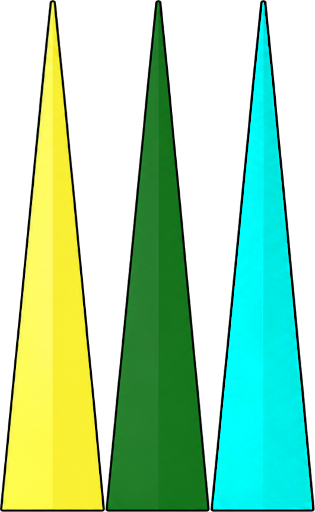
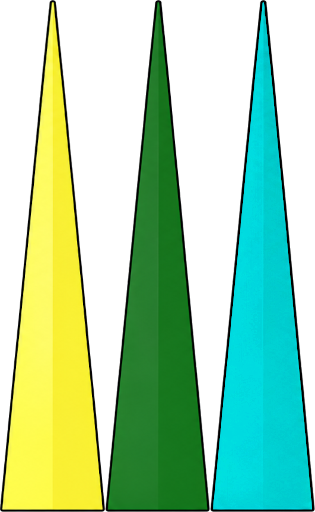
gfx: Piece highlight texture

Changed region(s): [[0.6571, 0.0, 1.0, 1.0]]

diff --git a/BackgammonByHoratiu/Gui/Controls/GuiGameBoard.cs b/BackgammonByHoratiu/Gui/Controls/GuiGameBoard.cs
@@ -44,7 +44,6 @@ namespace BackgammonByHoratiu.Gui.Controls
         GameTime lastGameTime = new();
         SpriteFont boardFont;
 
-        // Precomputed hit-test rectangles mirroring the original MainWindow layout
         Rectangle[] columnRects;
         Rectangle outColumnTop, outColumnBottom;
         Rectangle houseTop, houseBottom;
@@ -152,12 +151,19 @@ namespace BackgammonByHoratiu.Gui.Controls
                     ContentFile = "Table/pieces",
                     SourceRectangle = new Rectangle2D(pieceFrameSize, 0, pieceFrameSize, pieceFrameSize),
                     Size = new Size2D(pieceFrameSize, pieceFrameSize)
+                },
+                new GuiImage
+                {
+                    ContentFile = "Table/pieces",
+                    SourceRectangle = new Rectangle2D(pieceFrameSize * 2, 0, pieceFrameSize, pieceFrameSize),
+                    Size = new Size2D(pieceFrameSize, pieceFrameSize)
                 }
             ];
             pieces[0].Hide();
             pieces[1].Hide();
+            pieces[2].Hide();
 
-            RegisterChildren(die1, die2, pieces[0], pieces[1], targetColumnImage);
+            RegisterChildren(die1, die2, pieces[0], pieces[1], pieces[2], targetColumnImage);
             RegisterChildren(columnImages);
         }
 
@@ -199,13 +205,10 @@ namespace BackgammonByHoratiu.Gui.Controls
             int w = GameDefines.WindowWidth;
             int h = GameDefines.WindowHeight;
 
-            // Background
             spriteBatch.Draw(pixelTexture, new Rectangle(0, 0, w, h), ColorBackground);
 
-            // Column triangles
             DrawColumns(spriteBatch);
 
-            // Highlight valid destination columns (below pieces)
             foreach (int dest in ValidDestinations)
             {
                 if (dest >= 0 && dest < 24)
@@ -222,18 +225,15 @@ namespace BackgammonByHoratiu.Gui.Controls
                 }
             }
 
-            // Bar and house backgrounds
             spriteBatch.Draw(pixelTexture, outColumnTop, ColorOutColumn);
             spriteBatch.Draw(pixelTexture, outColumnBottom, ColorOutColumn);
             spriteBatch.Draw(pixelTexture, houseTop, ColorHouseColumn);
             spriteBatch.Draw(pixelTexture, houseBottom, ColorHouseColumn);
 
-            // Pieces on board columns
             DrawPieces(spriteBatch);
 
             DrawCompletedPieces(spriteBatch);
 
-            // Animated piece in flight
             if (isAnimating)
             {
                 TextureSprite animSprite = null;
@@ -257,25 +257,7 @@ namespace BackgammonByHoratiu.Gui.Controls
                     DrawCircle(spriteBatch, new Rectangle(pos.X, pos.Y, ps, ps), animColor);
                 }
             }
-
-            // Highlight selected column / bar
-            if (SelectedColumn >= 0 && SelectedColumn < 24)
-            {
-                DrawBorder(spriteBatch, columnRects[SelectedColumn], Color.Yellow, 3);
-            }
-            else if (SelectedColumn == GameDefines.ColBarP1)
-            {
-                DrawBorder(spriteBatch, outColumnTop, Color.Yellow, 3);
-            }
-            else if (SelectedColumn == GameDefines.ColBarP2)
-            {
-                DrawBorder(spriteBatch, outColumnBottom, Color.Yellow, 3);
-            }
         }
-
-        // ------------------------------------------------------------------ //
-        //  Drawing helpers                                                     //
-        // ------------------------------------------------------------------ //
 
         void DrawColumns(SpriteBatch spriteBatch)
         {
@@ -332,7 +314,8 @@ namespace BackgammonByHoratiu.Gui.Controls
                         dest = new Rectangle(columnRects[i].Left, columnRects[i].Bottom - (z + 1) * pieceSize, pieceSize, pieceSize);
                     }
 
-                    DrawCircle(spriteBatch, dest, pieceColor);
+                    bool isTopPiece = z == visible - 1 && i == SelectedColumn;
+                    DrawCircle(spriteBatch, dest, pieceColor, isTopPiece);
                 }
 
                 if (count > piecesPerCol)
@@ -368,7 +351,8 @@ namespace BackgammonByHoratiu.Gui.Controls
             {
                 int cx = outColumnTop.Left + (outColumnTop.Width - pieceSize) / 2;
                 Rectangle dest = new(cx, outColumnTop.Top + z * pieceSize, pieceSize, pieceSize);
-                DrawCircle(spriteBatch, dest, ColorPlayer1);
+                bool isTopPiece = z == Math.Min(piecesP1, piecesPerCol) - 1 && SelectedColumn == GameDefines.ColBarP1;
+                DrawCircle(spriteBatch, dest, ColorPlayer1, isTopPiece);
             }
             if (piecesP1 > piecesPerCol)
             {
@@ -381,7 +365,8 @@ namespace BackgammonByHoratiu.Gui.Controls
             {
                 int cx = outColumnBottom.Left + (outColumnBottom.Width - pieceSize) / 2;
                 Rectangle dest = new(cx, outColumnBottom.Bottom - pieceSize - z * pieceSize, pieceSize, pieceSize);
-                DrawCircle(spriteBatch, dest, ColorPlayer2);
+                bool isTopPiece = z == Math.Min(piecesP2, piecesPerCol) - 1 && SelectedColumn == GameDefines.ColBarP2;
+                DrawCircle(spriteBatch, dest, ColorPlayer2, isTopPiece);
             }
             if (piecesP2 > piecesPerCol)
             {
@@ -428,9 +413,9 @@ namespace BackgammonByHoratiu.Gui.Controls
             }
         }
 
-        void DrawCircle(SpriteBatch spriteBatch, Rectangle dest, Color fill)
+        void DrawCircle(SpriteBatch spriteBatch, Rectangle dest, Color fill, bool isSelected = false)
         {
-            int idx = fill == ColorPlayer2 ? 1 : 0;
+            int idx = isSelected ? 2 : (fill == ColorPlayer2 ? 1 : 0);
             pieces[idx].Location = new Point2D(dest.X, dest.Y);
             pieces[idx].Size = new Size2D(dest.Width, dest.Height);
             pieces[idx].Update(lastGameTime);
@@ -439,13 +424,9 @@ namespace BackgammonByHoratiu.Gui.Controls
 
         void DrawBorder(SpriteBatch spriteBatch, Rectangle rect, Color color, int thickness)
         {
-            // Top
             spriteBatch.Draw(pixelTexture, new Rectangle(rect.Left, rect.Top, rect.Width, thickness), color);
-            // Bottom
             spriteBatch.Draw(pixelTexture, new Rectangle(rect.Left, rect.Bottom - thickness, rect.Width, thickness), color);
-            // Left
             spriteBatch.Draw(pixelTexture, new Rectangle(rect.Left, rect.Top, thickness, rect.Height), color);
-            // Right
             spriteBatch.Draw(pixelTexture, new Rectangle(rect.Right - thickness, rect.Top, thickness, rect.Height), color);
         }
 
@@ -458,10 +439,6 @@ namespace BackgammonByHoratiu.Gui.Controls
 
             spriteBatch.DrawString(boardFont, text, pos, color);
         }
-
-        // ------------------------------------------------------------------ //
-        //  Hit-test helpers (used by GameplayScreen)                          //
-        // ------------------------------------------------------------------ //
 
         public int ColumnAt(int x, int y)
         {
@@ -576,8 +553,6 @@ namespace BackgammonByHoratiu.Gui.Controls
 
             TextureSprite sprite = activePlayer == 2 ? animSpriteBrown : animSpriteWhite;
 
-            // Hop 1 left sprite.Location at the original start; advance it to the
-            // intermediate pixel (= TargetLocation from hop 1) so hop 2 starts there.
             sprite.Location = sprite.MovementEffect.TargetLocation;
 
             Point2D dstPixel = GetAnimDestPixel(toCol, activePlayer, ps, piecesPerCol);
@@ -609,7 +584,6 @@ namespace BackgammonByHoratiu.Gui.Controls
                 return new Point2D(cx, outColumnTop.Top + (count - 1) * ps);
             }
 
-            // ColBarP2
             int cxBrown = outColumnBottom.Left + (outColumnBottom.Width - ps) / 2;
             int countBrown = Math.Min(game.Player2.OutedPieces, piecesPerCol);
             return new Point2D(cxBrown, outColumnBottom.Bottom - countBrown * ps);
@@ -643,7 +617,6 @@ namespace BackgammonByHoratiu.Gui.Controls
                 return new Point2D(cx, houseBottom.Bottom - (slot + 1) * ps);
             }
 
-            // ColHouseP2
             int cxH = houseTop.Left + (houseTop.Width - ps) / 2;
             int existingH = game.Player2.CompletedPieces;
             int slotH = existingH >= piecesPerCol ? piecesPerCol - 1 : existingH;
@@ -672,7 +645,6 @@ namespace BackgammonByHoratiu.Gui.Controls
             int ps = GameDefines.PieceSize;
             int piecesPerCol = GameDefines.ColumnHeight / ps;
 
-            // The hit piece was the only one at hitCol (a blot, count = 1)
             Point2D srcPixel = hitCol < 12
                 ? new Point2D(columnRects[hitCol].Left, columnRects[hitCol].Top)
                 : new Point2D(columnRects[hitCol].Left, columnRects[hitCol].Bottom - ps);
@@ -680,7 +652,6 @@ namespace BackgammonByHoratiu.Gui.Controls
             Point2D dstPixel;
             if (hitPlayer == 1)
             {
-                // White piece flies to P1 bar (outColumnTop)
                 int cx = outColumnTop.Left + (outColumnTop.Width - ps) / 2;
                 int count = Math.Min(game.Player1.OutedPieces, piecesPerCol);
                 dstPixel = new Point2D(cx, outColumnTop.Top + (count - 1) * ps);
@@ -688,7 +659,6 @@ namespace BackgammonByHoratiu.Gui.Controls
             }
             else
             {
-                // Brown piece flies to P2 bar (outColumnBottom)
                 int cx = outColumnBottom.Left + (outColumnBottom.Width - ps) / 2;
                 int count = Math.Min(game.Player2.OutedPieces, piecesPerCol);
                 dstPixel = new Point2D(cx, outColumnBottom.Bottom - count * ps);
@@ -737,8 +707,6 @@ namespace BackgammonByHoratiu.Gui.Controls
 
             columnRects = new Rectangle[24];
 
-            // Top-half columns 0-11 (triangles point DOWN from top)
-            // Column 11 starts at x=0; 10..6 extend right; gap before 5; 5..0 continue right
             columnRects[11] = new Rectangle(0, 0, ps, colH);
             for (int i = 10; i >= 0; i--)
             {
@@ -754,7 +722,6 @@ namespace BackgammonByHoratiu.Gui.Controls
                 }
             }
 
-            // Bottom-half columns 12-23 (triangles point UP from bottom)
             int bottomY = bh - colH;
             columnRects[12] = new Rectangle(0, bottomY, ps, colH);
             for (int i = 13; i < 24; i++)
@@ -771,11 +738,11 @@ namespace BackgammonByHoratiu.Gui.Controls
                 }
             }
 
-            int barX = columnRects[6].Right;           // 288
-            int barWidth = ps + pad * 2;                   // 64
-            int halfH = bh / 2;                         // 312
-            int houseX = columnRects[0].Right;           // 640
-            int houseWidth = ps + pad * 3;                  // 72
+            int barX = columnRects[6].Right;
+            int barWidth = ps + pad * 2;
+            int halfH = bh / 2;
+            int houseX = columnRects[0].Right;
+            int houseWidth = ps + pad * 3;
 
             outColumnTop = new Rectangle(barX, 0, barWidth, halfH);
             outColumnBottom = new Rectangle(barX, halfH, barWidth, halfH);